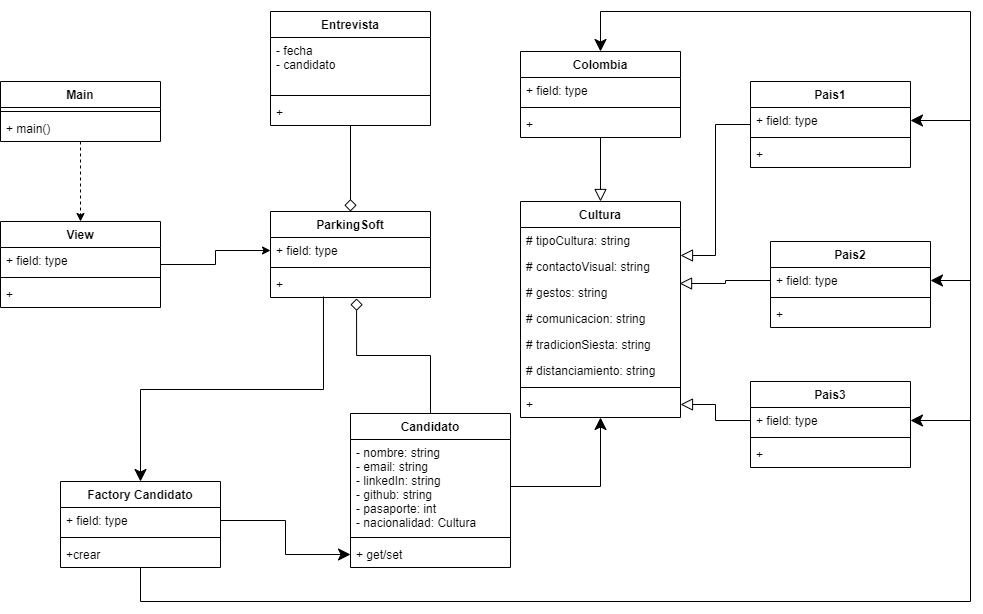
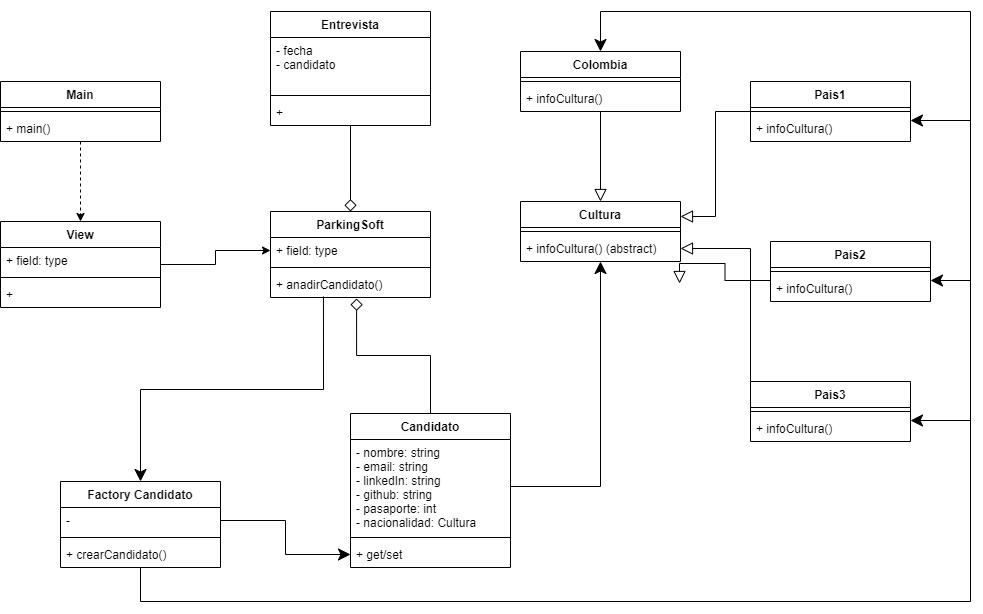
ahora si cambios en el diagrama y en cultura xd

diff --git a/src/Model/Cultura.h b/src/Model/Cultura.h
@@ -14,7 +14,7 @@ using std::cin;
 
 class Cultura {
 
-    protected:
+    public:
         Cultura();
         virtual void infoCultura();
 

diff --git a/src/Model/FactoryCandidato.h b/src/Model/FactoryCandidato.h
@@ -1,4 +1,4 @@
-//
+    //
 // Created by isake on 25/11/2021.
 //
 
